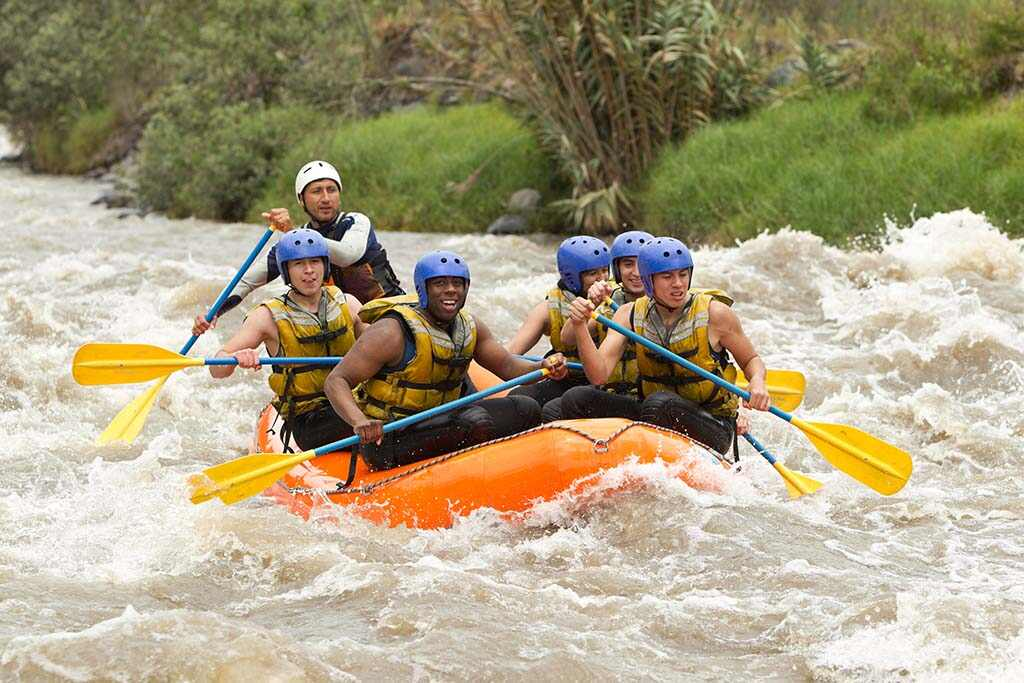
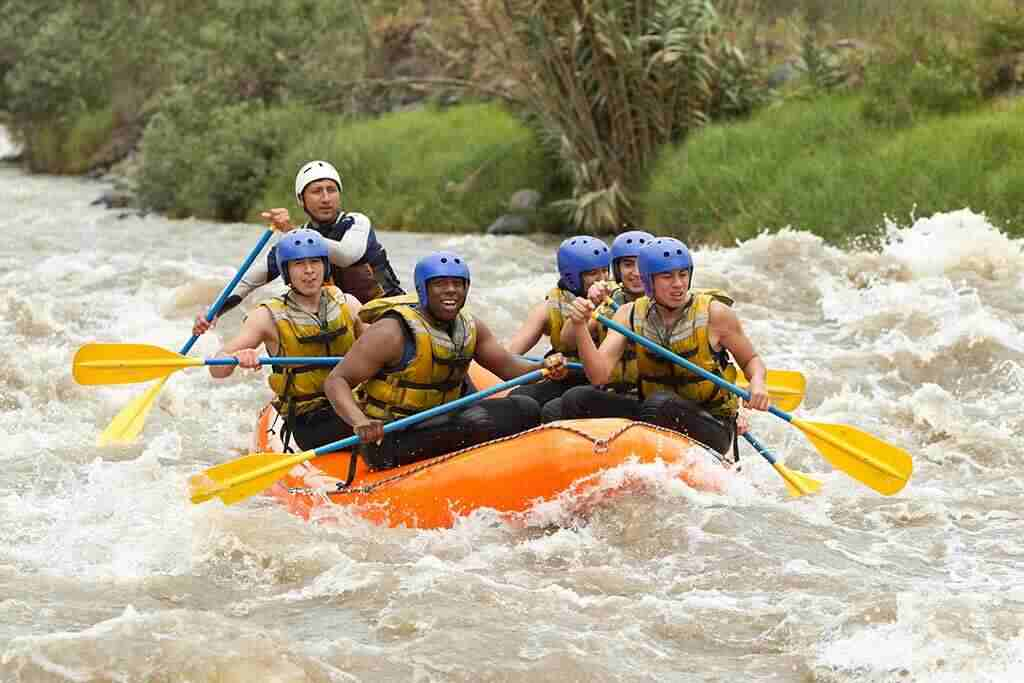
week 04 optimized image and added a new image and optimized it

diff --git a/wwr/about.html b/wwr/about.html
@@ -41,7 +41,7 @@
             <h2>History</h2>
             <article>
                 <p>Lorem ipsum, dolor sit amet consectetur adipisicing elit. Labore pariatur blanditiis autem velit cumque ab veritatis excepturi maxime, doloremque consequuntur. </p>
-                <img src="./images/rsz_1rafting53_600.jpg" alt="Rafting picture">
+                <img src="./images/r1rafting22_600.jpg" alt="Rafting picture">
                 <p>Lorem ipsum dolor sit amet consectetur adipisicing elit. Et magnam placeat voluptas sint aliquid minima ullam quisquam blanditiis quaerat eum.</p>
             </article>
         </section>

diff --git a/wwr/styles/rafting.css b/wwr/styles/rafting.css
@@ -140,11 +140,15 @@ h1 {
     box-shadow: 5px 5px 5px rgba(0, 0, 0, 0.7);
     border-radius: 5px;
     margin: 5px;
-    clear: both;
+    /* clear: both; */
 }
 
 .history {
     background: var(--accent2-color);
+    /* text-align: center; */
+}
+
+.history h2 {
     text-align: center;
 }
 
@@ -159,7 +163,8 @@ h1 {
     /* float: right; */
     width: 200px;
     margin: 0 auto;
-
+    border-radius: 5px;
+    box-shadow: 5px 5px 5px rgba(0, 0, 0, 0.8);
 }
 
 .adventure{
